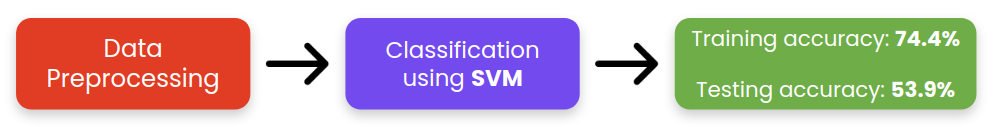
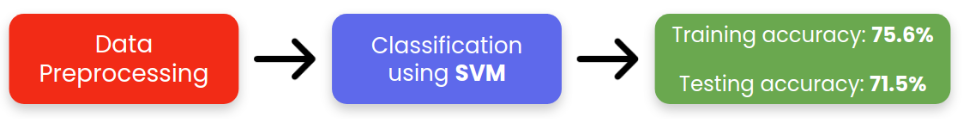
updated accuracies, added approach 1.3 and updated dataset size in approach-1.html

diff --git a/approach-1.html b/approach-1.html
@@ -95,7 +95,7 @@
                                         <div class="text-dark h6 mb-0"><span>
                                             <b>Data Preprocessing tasks:</b> <br><br>
                                             <ol>
-                                                <li>Train-test split (using 50 videos for training, 26 for testing)</li>
+                                                <li>Train-test split (using 80 videos for training, 24 for testing)</li>
                                                 <li>Generating features and labels dataframe </li>
                                                 <li>Feature Scaling using MinMax Scaler</li>
                                             </ol>  
@@ -105,7 +105,7 @@
                                                 <li>We used SVM(Support Vector Machine) to train a classification model to predict
                                                     if a frame is safe/unsafe.
                                                 </li>
-                                                <li>Training accuracy : <b> 74.4% </b>, Testing accuracy: <b> 53.9% </b></li>
+                                                <li>Training accuracy : <b> 75.57% </b>, Testing accuracy: <b> 71.5% </b></li>
                                                 <li>Python implementaion for the same can be found <a href="https://github.com/roadcross-assistant/Project/blob/master/Approach_1.1_individual_frames.ipynb" target="_blank"><u>here</u>.</a></li>
                                             </ul>
                                         </span>
@@ -178,7 +178,7 @@
                                         <div class="text-dark h6 mb-0"><span>
                                             <b> Preprocessing tasks: </b> <br><br>
                                             <ol>
-                                                <li>Train-test split (using 50 videos for training, 26 for testing)</li>
+                                                <li>Train-test split (using 80 videos for training, 24 for testing)</li>
                                                 <li>Generating features and labels dataframe and eliminating the vehicles not in the direction 
                                                     of our interest
                                                 </li>
@@ -189,8 +189,89 @@
                                                 <li>We used SVM(Support Vector Machine) to train a classification model to predict
                                                     if a frame is safe/unsafe.
                                                 </li>
-                                                <li>Training accuracy : <b> 75.6% </b>, Testing accuracy: <b> 72.3% </b></li>
+                                                <li>Training accuracy : <b> 77.27% </b>, Testing accuracy: <b> 74.99% </b></li>
                                                 <li>Python implementaion for the same can be found <a href="https://github.com/roadcross-assistant/Project/blob/master/Approach_1.2_individual_frames.ipynb" target="_blank"><u>here</u>.</a></li>
+                                            </ul>
+                                        </span>
+                                        </div><br>
+                                        <div class=" text-primary font-weight-bold text-xls mb-1 h5"><span>Sample Prediction Outputs</span></div>
+                                        <br>
+                                        <div class="row">
+                                            <div class="images-row col-lg-4 col-sm-12">
+                                                <img src="assets/img/approach_1.2_frames/tp1.jpg" width="100%">
+                                                <figcaption>True Positive</figcaption><br>
+                                            </div>
+                                            <div class="images-row col-lg-4 col-sm-12">
+                                                <img src="assets/img/approach_1.2_frames/tp2.jpg" width="100%">
+                                                <figcaption>True Positive</figcaption><br>
+                                            </div>
+                                            <div class="images-row col-lg-4 col-sm-12">
+                                                <img src="assets/img/approach_1.2_frames/tn1.jpg" width="100%">
+                                                <figcaption>True Negative</figcaption><br>
+                                            </div>
+                                        </div>
+                                        <div class="row">
+                                            <div class="images-row col-lg-4 col-sm-12">
+                                                <img src="assets/img/approach_1.2_frames/tn2.jpg" width="100%">
+                                                <figcaption>True Negative</figcaption><br>
+                                            </div>
+                                            <div class="images-row col-lg-4 col-sm-12">
+                                                <img src="assets/img/approach_1.2_frames/fp1.jpg" width="100%">
+                                                <figcaption>False Positive</figcaption><br>
+                                            </div>
+                                            <div class="images-row col-lg-4 col-sm-12">
+                                                <img src="assets/img/approach_1.2_frames/fn1.jpg" width="100%">
+                                                <figcaption>False Negative</figcaption><br>
+                                            </div>
+                                        </div>
+                                    </div>
+                                </div>
+                            </div>
+                        </div>
+                    </div>
+                </div>
+
+                <div class="row">
+                    <div class="col-md-12 col-xl-12 mb-4">
+                        <div class="card shadow mb-4">
+                            <div class="card-body">
+                                <div class="row align-items-center no-gutters">
+                                    <div class="col mr-1">
+                                        <div class="approach-heading-div">
+                                        <h4 class="text-capitalize text-primary font-weight-bold text-xls my-2">
+                                            APPROACH 1.3
+                                        </h4>
+                                        </div>
+                                        <hr style="height:1px; background-color:#efefef;"/>
+                                        Approach 1.3 is an advancement over Approach 1.2 where we have made an attempt to improve our
+                                        features by adding speeds as feature and using frame-wise labels. <br><br>
+                                        <div class=" text-primary font-weight-bold text-xls mb-1 h5"><span>Feature Extraction</span></div>
+                                        <div><img src="assets/img/features_1.2.png" class="img-fluid"></div>
+                                        <div class="text-dark h6 mb-0">
+                                            <span>
+                                                The feature extraction logic is same as that of Approach 1.2, with just one feature addition 
+                                                as per the <b> speed of vehicles </b>. As seen from the above figure, for crossing road,
+                                                the speed of every vehicle is calculated and from every region a maximum speed of vehicle, 
+                                                we have considered as features. <br><br>
+                                            </span>
+                                        </div>
+                                        <br>
+                                        <div class=" text-primary font-weight-bold text-xls mb-1 h5"><span>Classification Model</span></div>
+                                        <div class="text-center"><img src="assets/img/approach_1.3.png" width="100%"></div><br>
+                                        <div class="text-dark h6 mb-0"><span>
+                                            <b> Preprocessing tasks: </b> <br><br>
+                                            <ol>
+                                                <li>Train-test split (using 80 videos for training, 24 for testing)</li>
+                                                <li>Generating features and labels dataframe including speed of vehicles in every region </li>
+                                                <li>Feature Scaling using MinMax Scaler</li>
+                                            </ol>  
+                                            <b>Model Training:</b><br><br>
+                                            <ul>
+                                                <li>We used SVM(Support Vector Machine) to train a classification model to predict
+                                                    if a frame is safe/unsafe.
+                                                </li>
+                                                <li>Training accuracy : <b> 85.91% </b>, Testing accuracy: <b> 83.34% </b></li>
+                                                <li>Python implementaion for the same can be found <a href="https://github.com/roadcross-assistant/Project/blob/master/Approach_1.3_individual_frames.ipynb" target="_blank"><u>here</u>.</a></li>
                                             </ul>
                                         </span>
                                         </div><br>
